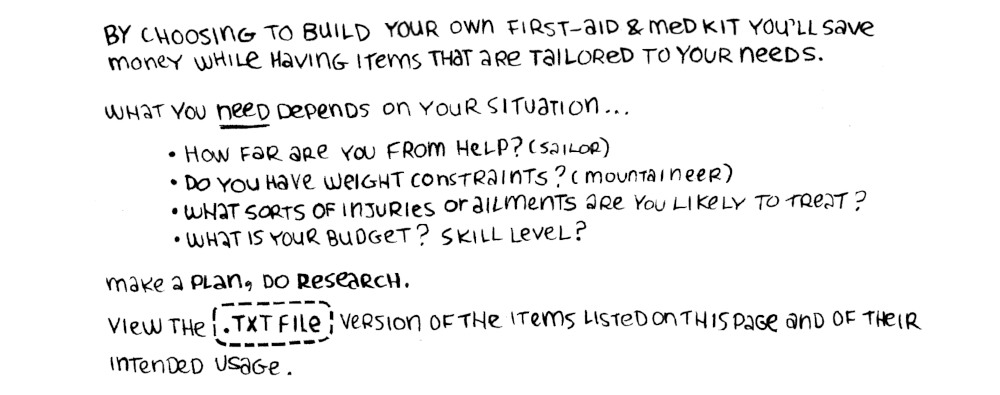
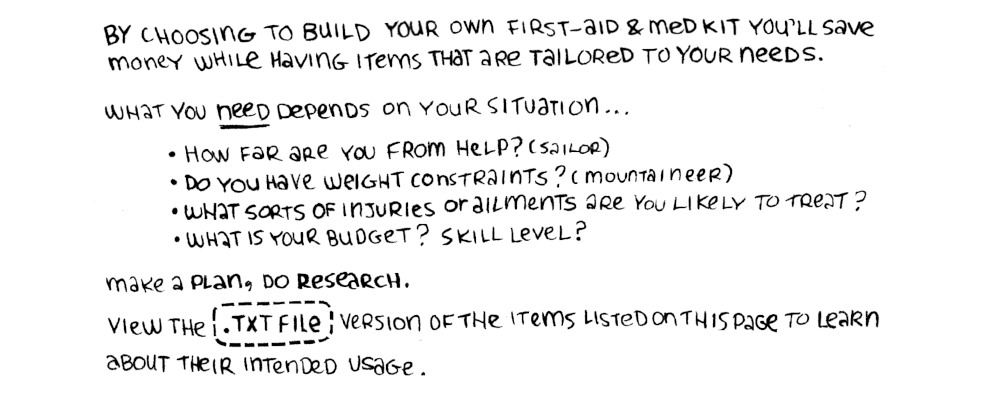
*

Changed region(s): [[0.093, 0.881, 0.434, 0.9722], [0.775, 0.7899, 0.93, 0.8506]]

diff --git a/site/first_aid_kit.html b/site/first_aid_kit.html
@@ -42,7 +42,7 @@
         <img src='../media/content/first_aid_07.jpg' alt='' loading="lazy">
         <a style='width: 14%;height: 14%;top: 74%;left: 20%;' href="../media/docs/first_aid.txt"><span>First-aid .text file</span></a>
     </div>
-        <p class='noprint'>By choosing to build a first-aid and med kit yourself you'll save money, while having items you are more likely to use.<br>What you need deends on your situation:<br>How far are you from help?<br>Do you have weight constraints?<br>What sorts of injuries or ailments are you likely to treat?<br>What is your budget? Skill level?<br>Make a plan, do research.<br>View the .txt file version of the items listed on this page, and of their intended usage.</p>
+        <p class='noprint'>By choosing to build your own first-aid and med kit you'll save money, while having that are tailored to your needs.<br>What you need deends on your situation:<br>How far are you from help? (Sailor)<br>Do you have weight constraints? (Mountaineer)<br>What sorts of injuries or ailments are you likely to treat?<br>What is your budget? Skill level?<br>Make a plan, do research.<br>View the .txt file version of the items listed on this page, and of their intended usage.</p>
     <h2>Basic First-Aid Kit</h2>
     <div id='wrap'>
         <img src='../media/content/first_aid_kit.jpg' alt='drawings of examples of items that basic first aid kits ought to contain: Sterile gauze pads, Medical tape, Roller bandages, Adhesive bandages, Scissors, Tweezers, Safety pins, Instant ice packs, Surgical or examination gloves, Flashlight, Antiseptic wipes, Pencil (and sharpie) and pad, Emergency blanket, Eye patch, Thermometer, a first aid manual, burn dressings(with gel), hydration tablets/powder, surgical tape, petrolatum gauze, and hot water bottle' loading="lazy">
